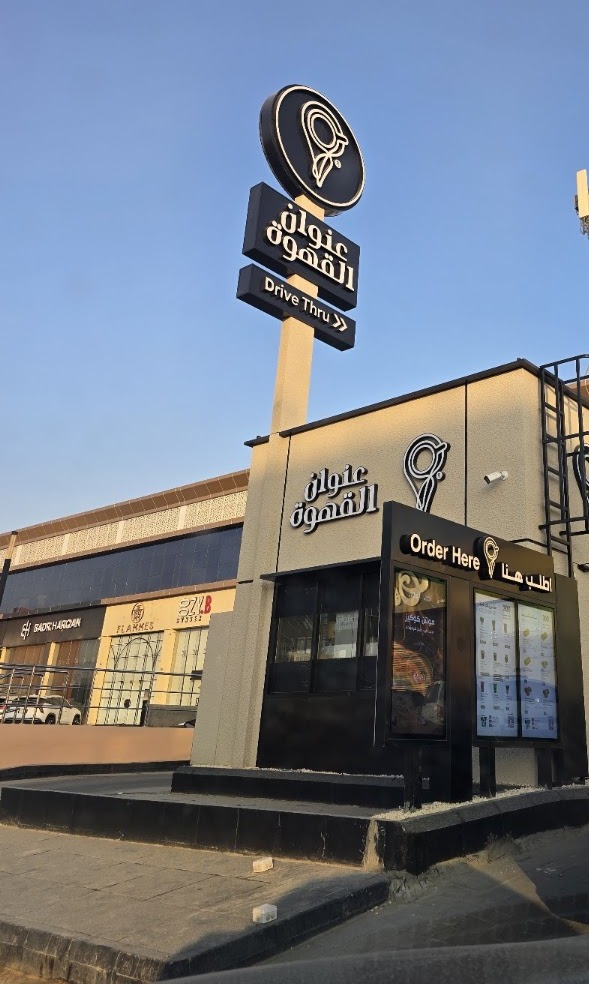
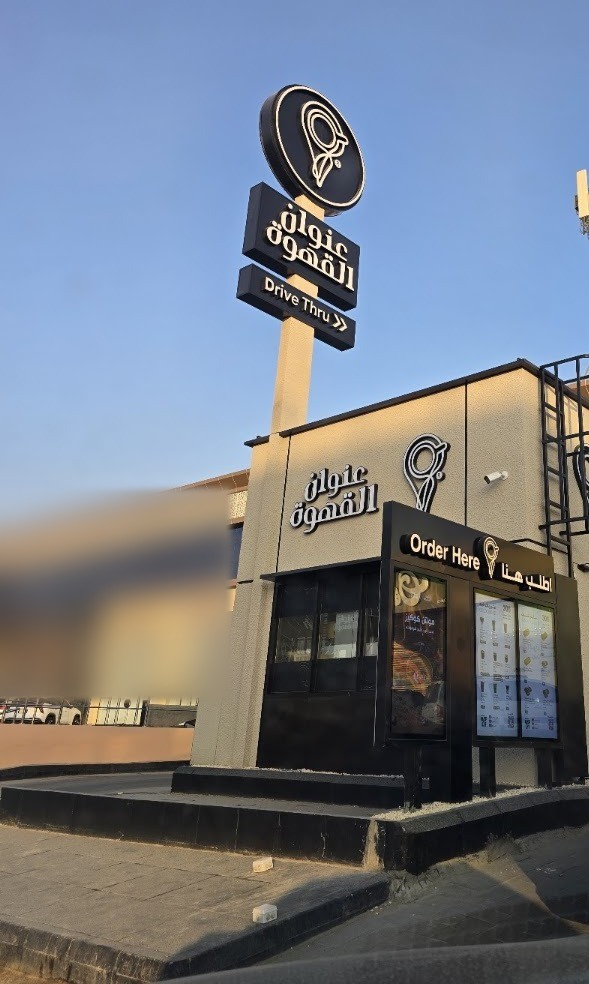
QA #230 round 3: drop rabwah patio frame, blur rival signs
Drop coffee-address-al-rabwah frame 2 (Ar Rawabi patio). Blur the Barn's kiosk on drive-al-janadriyyah frame 2 and the neighbouring storefront strip on coffee-address-al-rabi frame 2. New frames 81→80.

Changed region(s): [[0.0, 0.4878, 0.3973, 0.7317]]

diff --git a/scripts/check-cafe-detail.ts b/scripts/check-cafe-detail.ts
@@ -561,7 +561,7 @@ const PLACEID_FIX_HERO_COUNTS: Record<string, number> = {
   "coffee-address-al-hamra": 2,
   "coffee-address-al-nahdah": 2,
   "coffee-address-al-rabi": 2,
-  "coffee-address-al-rabwah": 2,
+  "coffee-address-al-rabwah": 1,
   "coffee-zam-al-yarmouk": 3,
   "dahal-specialty-al-nahdah": 3,
   "drcafe-al-jazirah": 3,
